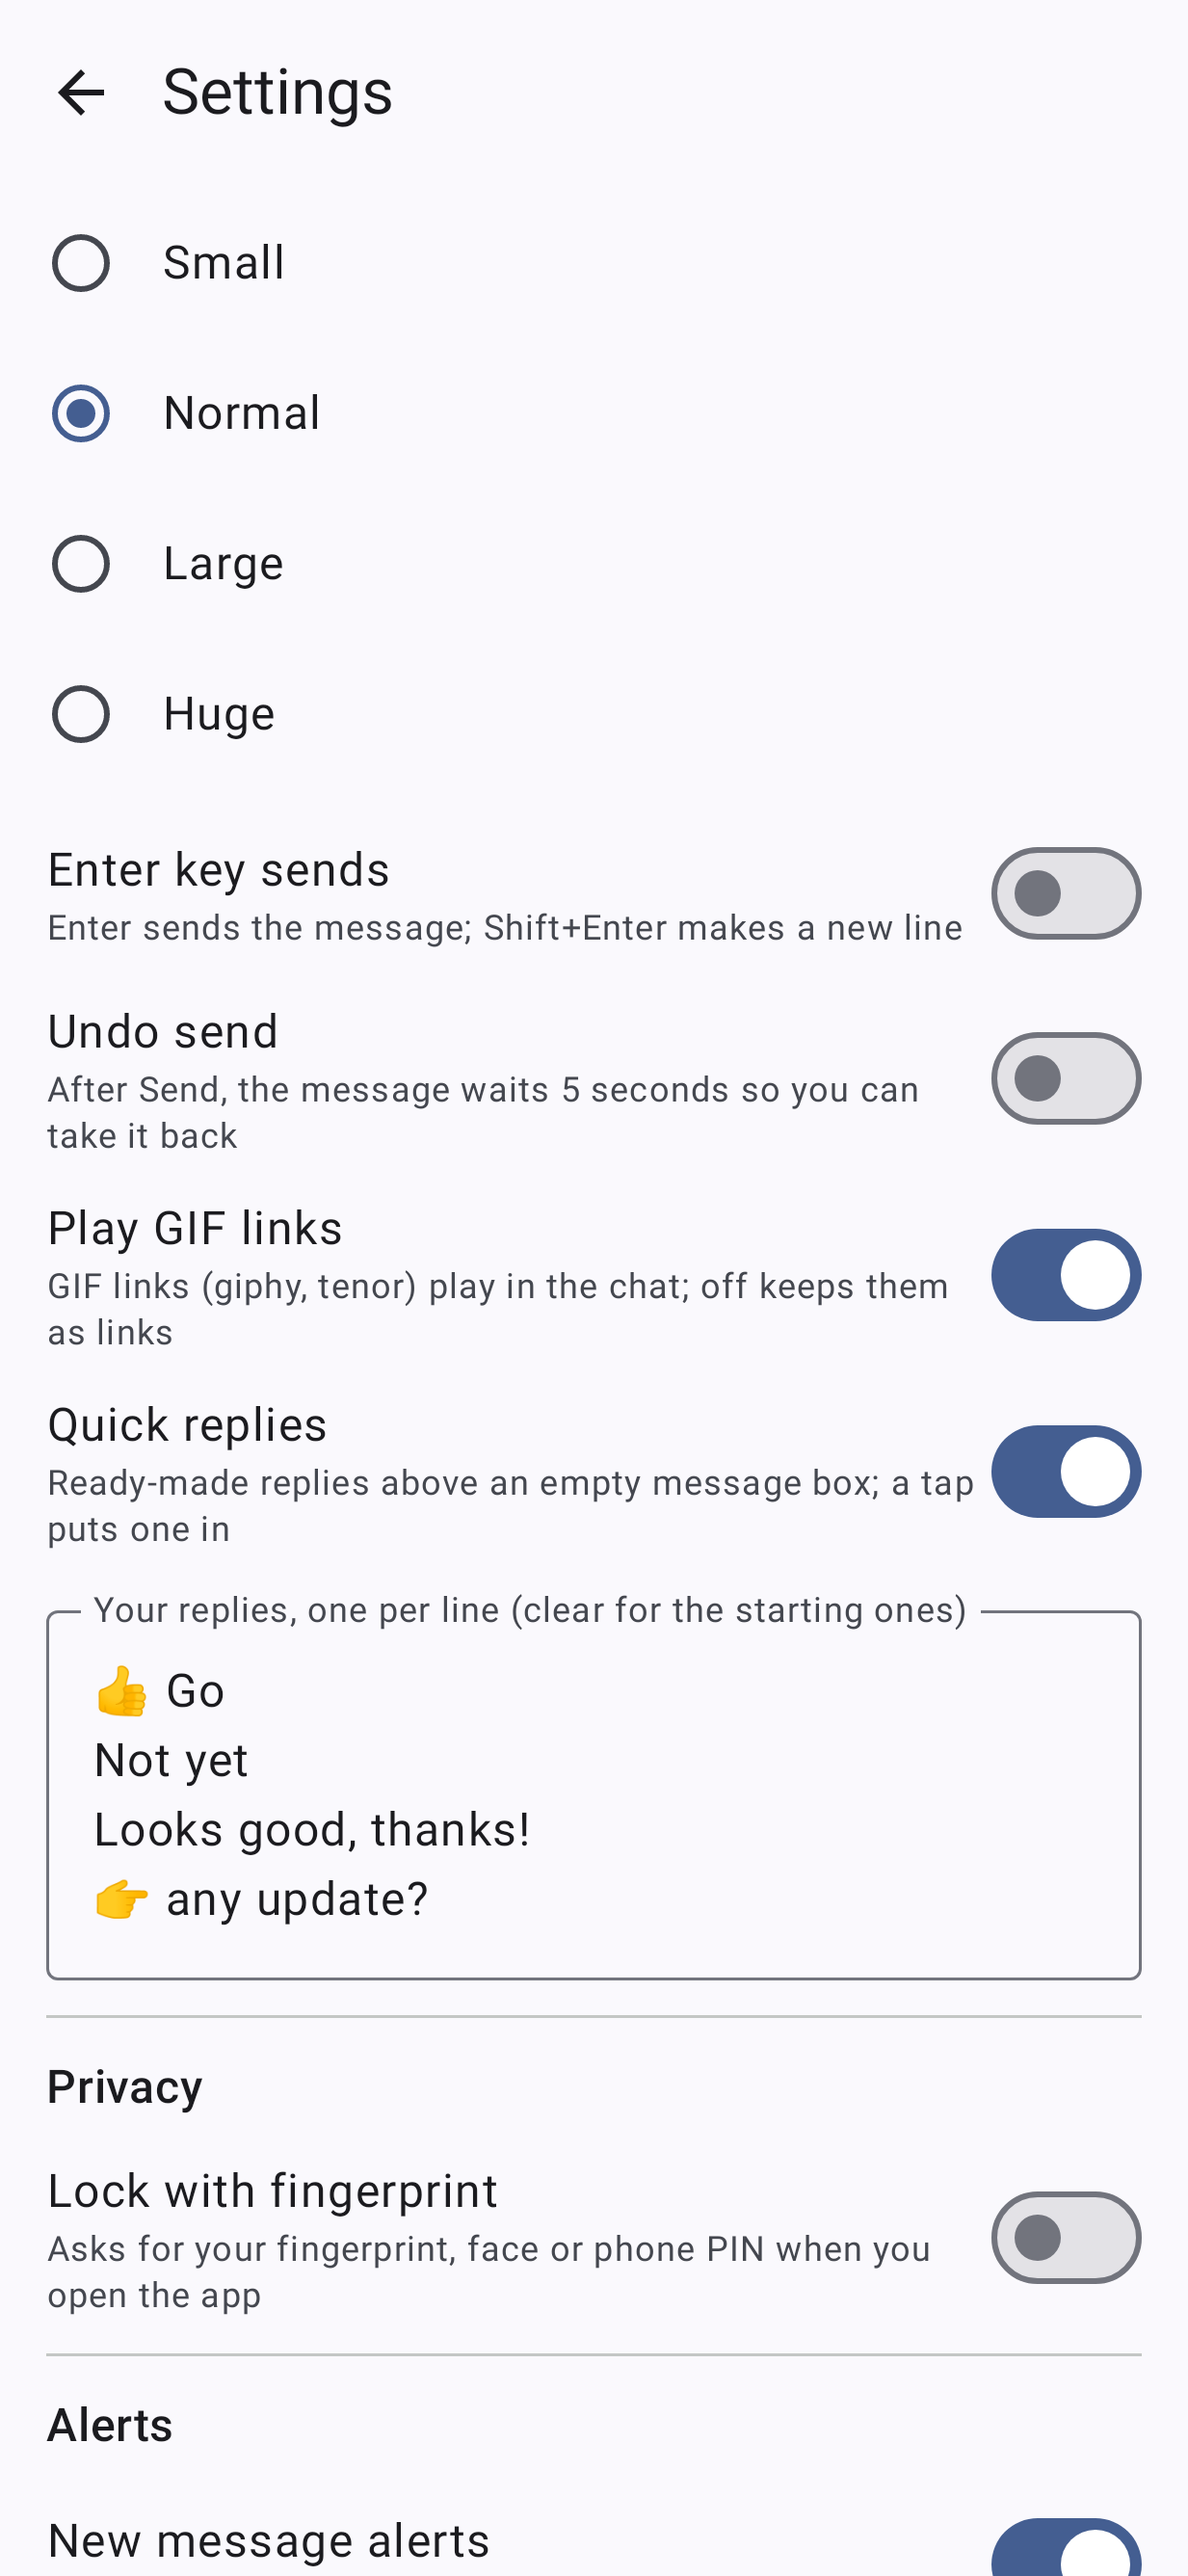
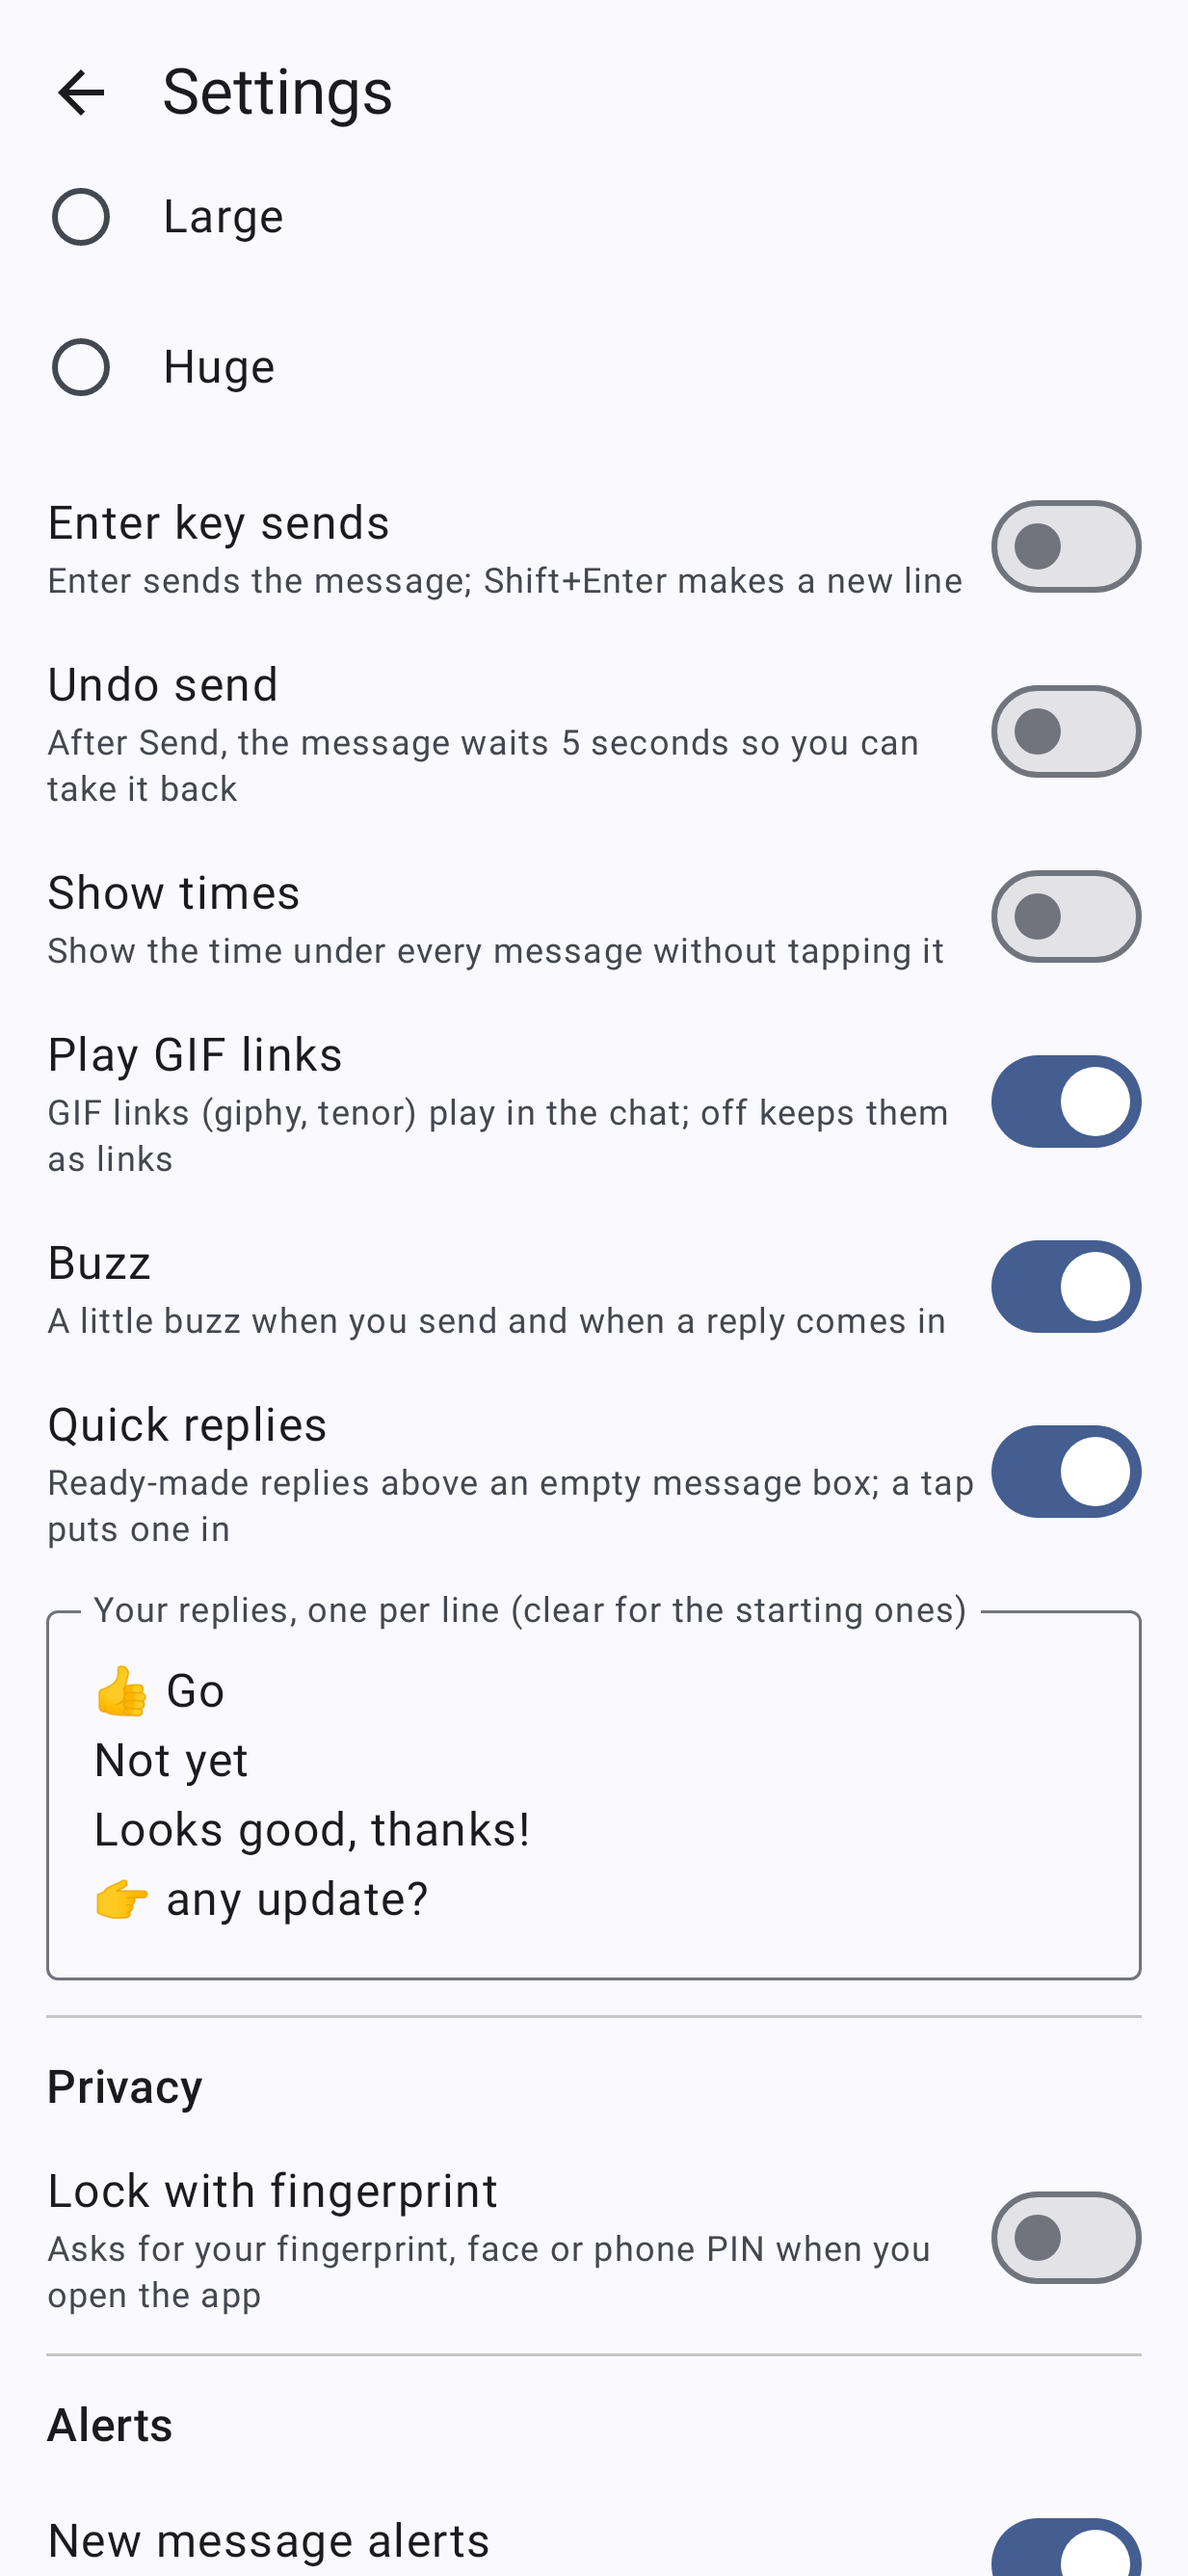
Settings: always show message times (AII-211)

diff --git a/app/src/main/java/com/smizflark/aigile/messenger/ui/ChatBubble.kt b/app/src/main/java/com/smizflark/aigile/messenger/ui/ChatBubble.kt
@@ -224,7 +224,7 @@ internal fun MessageBubble(r: Row.Msg, ref: ChatRef, repo: Repo, mark: Int, onRe
             border = when (mark) { 2 -> BorderStroke(3.dp, cs.tertiary); 1 -> BorderStroke(1.5.dp, cs.tertiary.copy(alpha = 0.6f)); else -> null },   // AII-78: find matches
             shape = RoundedCornerShape(18.dp, 18.dp, if (b.mine) 4.dp else 18.dp, if (b.mine) 18.dp else 4.dp),
             modifier = Modifier.widthIn(max = 320.dp).semantics(mergeDescendants = true) {}.testTag(if (b.mine) "mine" else "theirs")
-                .combinedClickable(onClick = { showTime = !showTime }, onLongClick = { menu = true }),
+                .combinedClickable(onClick = { if (!Appearance.showTimes) showTime = !showTime }, onLongClick = { menu = true }),
         ) {
             // AII-201: Remind me picks a time; at that time an alert shows the message and opens the chat at it.
             DropdownMenu(expanded = remindMenu, onDismissRequest = { remindMenu = false }) {
@@ -333,7 +333,7 @@ internal fun MessageBubble(r: Row.Msg, ref: ChatRef, repo: Repo, mark: Int, onRe
         }
         }
         if (selecting) SelectText(shown.text) { selecting = false }
-        if (showTime && b.at.isNotBlank()) Text(fullTime(b.at), style = MaterialTheme.typography.labelSmall, color = cs.onSurfaceVariant,
+        if ((showTime || Appearance.showTimes) && b.at.isNotBlank()) Text(fullTime(b.at), style = MaterialTheme.typography.labelSmall, color = cs.onSurfaceVariant,
             modifier = Modifier.padding(horizontal = 6.dp, vertical = 2.dp).testTag("fulltime"))
         if (r.showOptions) FlowRow(Modifier.padding(top = 4.dp), horizontalArrangement = Arrangement.spacedBy(8.dp)) {
             b.options.forEach { o -> OutlinedButton(onClick = { onOption(o) }) { Text(o) } }

diff --git a/app/src/main/java/com/smizflark/aigile/messenger/data/Store.kt b/app/src/main/java/com/smizflark/aigile/messenger/data/Store.kt
@@ -134,6 +134,9 @@ class Store(context: Context) {
         get() = settings.getBoolean("buzz", true)
         set(v) = settings.edit().putBoolean("buzz", v).apply()
 
+    var showTimes: Boolean
+        get() = settings.getBoolean("showTimes", false)
+        set(v) = settings.edit().putBoolean("showTimes", v).apply()
     var undoSend: Boolean
         get() = settings.getBoolean("undoSend", false)
         set(v) = settings.edit().putBoolean("undoSend", v).apply()
@@ -269,7 +272,7 @@ class Store(context: Context) {
     companion object {
         const val SETTINGS = "settings"
         /** The preferences that go into backup. Everything else stays in the "messenger" file. */
-        val BACKED_UP = listOf("alerts", "quietFrom", "quietTo", "quietOn", "look", "phoneColours", "textSize", "enterSends", "undoSend", "gifs", "buzz", "quickReplies", "quickReplyText", "pinned", "muted")
+        val BACKED_UP = listOf("alerts", "quietFrom", "quietTo", "quietOn", "look", "phoneColours", "textSize", "enterSends", "undoSend", "showTimes", "gifs", "buzz", "quickReplies", "quickReplyText", "pinned", "muted")
 
         /** One-time move of the settings out of the pairing file, so the pairing file can stay out of backup. */
         fun moveSettings(from: SharedPreferences, to: SharedPreferences) {

diff --git a/app/src/main/java/com/smizflark/aigile/messenger/ui/Theme.kt b/app/src/main/java/com/smizflark/aigile/messenger/ui/Theme.kt
@@ -79,6 +79,7 @@ object Appearance {
     var gifs by mutableStateOf(true)
     /** Undo send (AII-202): Send waits 5 seconds with an Undo bar. */
     var undoSend by mutableStateOf(false)
+    var showTimes by mutableStateOf(false)
     /** Buzz on send and on a new reply (AII-205). */
     var buzz by mutableStateOf(true)
     /** Quick replies above an empty message box (AII-179); off until loaded, so screenshots stay as they were. */
@@ -87,7 +88,7 @@ object Appearance {
     var replies by mutableStateOf(emptyList<String>())
 
     fun load(store: Store) {
-        if (look == null) { look = Look.of(store.look); phoneColours = store.phoneColours; textSize = TextSize.of(store.textSize); enterSends = store.enterSends; gifs = store.gifs; buzz = store.buzz; undoSend = store.undoSend; quickReplies = store.quickReplies; replies = com.smizflark.aigile.messenger.data.Replies.parse(store.quickReplyText) }
+        if (look == null) { look = Look.of(store.look); phoneColours = store.phoneColours; textSize = TextSize.of(store.textSize); enterSends = store.enterSends; gifs = store.gifs; buzz = store.buzz; undoSend = store.undoSend; showTimes = store.showTimes; quickReplies = store.quickReplies; replies = com.smizflark.aigile.messenger.data.Replies.parse(store.quickReplyText) }
     }
 }
 

diff --git a/app/src/test/java/com/smizflark/aigile/messenger/screens/ChatShotTest.kt b/app/src/test/java/com/smizflark/aigile/messenger/screens/ChatShotTest.kt
@@ -62,6 +62,10 @@ class ChatShotTest : ShotBase() {
     @Test fun chatLight() { prime(lead()); shot("chat", false) { ChatScreen(repo, lead(), onBack = {}) } }
     @Test fun chatDark() { prime(lead()); shot("chat", true) { ChatScreen(repo, lead(), onBack = {}) } }
     @Test fun codeBoxDark() { val t = chats.first { it.id == "tunio" }; prime(t); shot("chat_code", true) { ChatScreen(repo, t, onBack = {}) } }   // AII-115
+    @Test fun chatShowTimes() {   // AII-211
+        prime(lead()); Appearance.showTimes = true
+        try { shot("chat_times", false) { ChatScreen(repo, lead(), onBack = {}) } } finally { Appearance.showTimes = false }
+    }
     @Test fun chatHuge() {
         prime(lead()); Appearance.textSize = TextSize.Huge
         try { shot("chat_huge", false) { ChatScreen(repo, lead(), onBack = {}) } } finally { Appearance.textSize = TextSize.Normal }

diff --git a/app/src/main/java/com/smizflark/aigile/messenger/ui/SettingsScreen.kt b/app/src/main/java/com/smizflark/aigile/messenger/ui/SettingsScreen.kt
@@ -111,6 +111,9 @@ fun SettingsScreen(repo: Repo, onBack: () -> Unit, onSignedOut: () -> Unit) {
             Toggle(stringResource(R.string.undo_send), stringResource(R.string.undo_send_sub), Appearance.undoSend, Modifier.testTag("undoSend")) {
                 Appearance.undoSend = it; s.undoSend = it
             }
+            Toggle(stringResource(R.string.show_times), stringResource(R.string.show_times_sub), Appearance.showTimes, Modifier.testTag("showTimes")) {
+                Appearance.showTimes = it; s.showTimes = it
+            }
             Toggle(stringResource(R.string.play_gifs), stringResource(R.string.play_gifs_sub), Appearance.gifs, Modifier.testTag("gifs")) {
                 Appearance.gifs = it; s.gifs = it
             }
